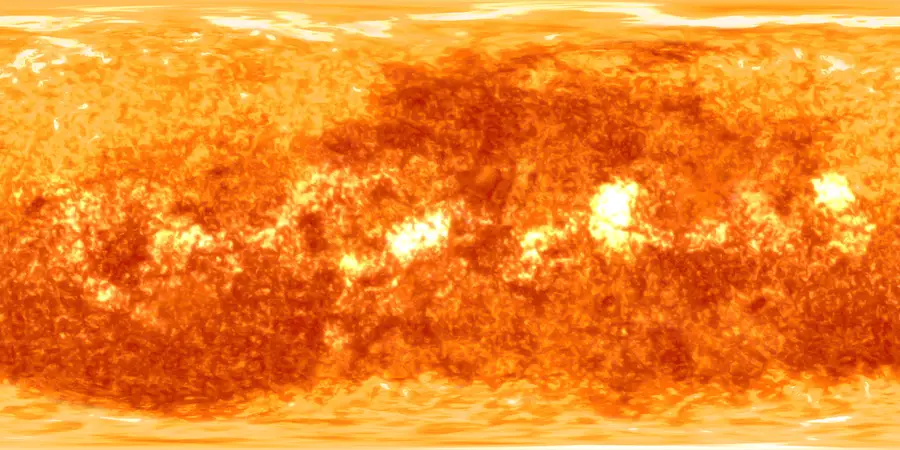
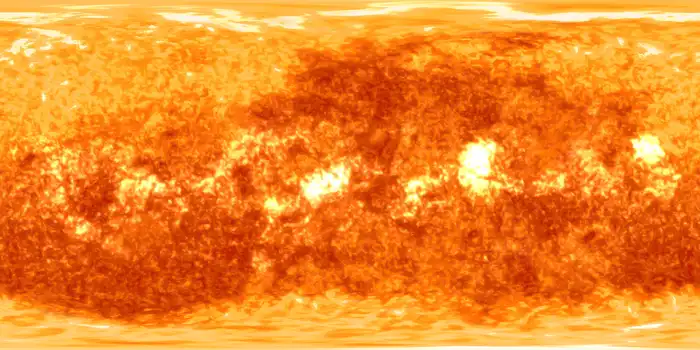
perf: corrige travamento causado pelo wallpaper
Medido com Playwright/CDP na página real: load event em <1s, rede ok
(zero request lento/falho) — o problema era renderização, não rede.
background-attachment: fixed no body brigava pelo compositor com o
canvas animado do #cosmic-bg (requestAnimationFrame em Head.tsx) a cada
scroll/frame, disparando "GPU stall due to ReadPixels" e travando a UI
(sensação de página que nunca termina de carregar).

- Remove background-attachment: fixed em todos os breakpoints; o fundo
  agora rola normalmente com a página.
- Recomprime as 4 texturas WebP (já ficam ~90% escondidas atrás do
  overlay translúcido, então a perda de qualidade é imperceptível):
  desktop 2200px/q72→1600px/q58-60, mobile 900px/q68→700px/q52-55.
  sun-desktop.webp cai de 178KB para 95KB, milkyway-desktop de 19KB
  para 7KB, e assim por diante nas versões mobile.

Claude-Session: https://claude.ai/code/session_0125sjA5xbs6dPJDo5iuNcwQ

Changed region(s): [[0.45, 0.4857, 0.48, 0.5143]]

diff --git a/quartz/styles/custom.scss b/quartz/styles/custom.scss
@@ -1621,17 +1621,20 @@ article img {
 /* --- Wallpaper: Via Láctea (noite) / Sol (dia) ---
    Duas fotos reais (texturas 8K da solarsystemscope.com, baixadas e
    reprocessadas em WebP local — quartz/static/wallpapers/, nunca hotlink),
-   cada uma com uma versão mobile bem mais leve (900px) para não pesar o
-   carregamento em telas pequenas — a versão desktop (2200px) já fica na
-   casa de poucas dezenas/centenas de KB.
+   cada uma com uma versão mobile bem mais leve para não pesar o
+   carregamento em telas pequenas.
    O gradiente com var(--light)/color-mix por cima da foto é o que mantém
    o texto legível: sidebar, cabeçalho e a maior parte dos componentes não
    têm background opaco próprio (só uns cards específicos, como
    .vault-card/.paper-banner/.astronomy-qrcode-card, que já usam washes
    translúcidos pensando em ter algo por trás) — sem esse overlay a foto
-   ficaria em bruto atrás do texto do site inteiro. background-attachment:
-   fixed só no desktop/tablet; no mobile causa jank/scroll travado
-   (principalmente Safari iOS), então ali o fundo rola com a página. */
+   ficaria em bruto atrás do texto do site inteiro.
+   Sem background-attachment: fixed em nenhum breakpoint — testado ao vivo
+   (Playwright + CDP) e a foto "grudada" na tela junto com o canvas animado
+   do #cosmic-bg (requestAnimationFrame, ver Head.tsx) disputava o
+   compositor a cada scroll/frame e travava a UI ("GPU stall due to
+   ReadPixels" no console) — sensação de página que nunca termina de
+   carregar. Fundo rola com a página em todos os tamanhos de tela. */
 $wallpaper-overlay: linear-gradient(
   color-mix(in srgb, var(--light) 88%, transparent),
   color-mix(in srgb, var(--light) 92%, transparent)
@@ -1643,12 +1646,7 @@ body {
   background-repeat: no-repeat;
   background-image: $wallpaper-overlay, url("static/wallpapers/sun-desktop.webp");
 
-  @media all and ($tablet), all and ($desktop) {
-    background-attachment: fixed;
-  }
-
   @media all and ($mobile) {
-    background-attachment: scroll;
     background-image: $wallpaper-overlay, url("static/wallpapers/sun-mobile.webp");
   }
 }
